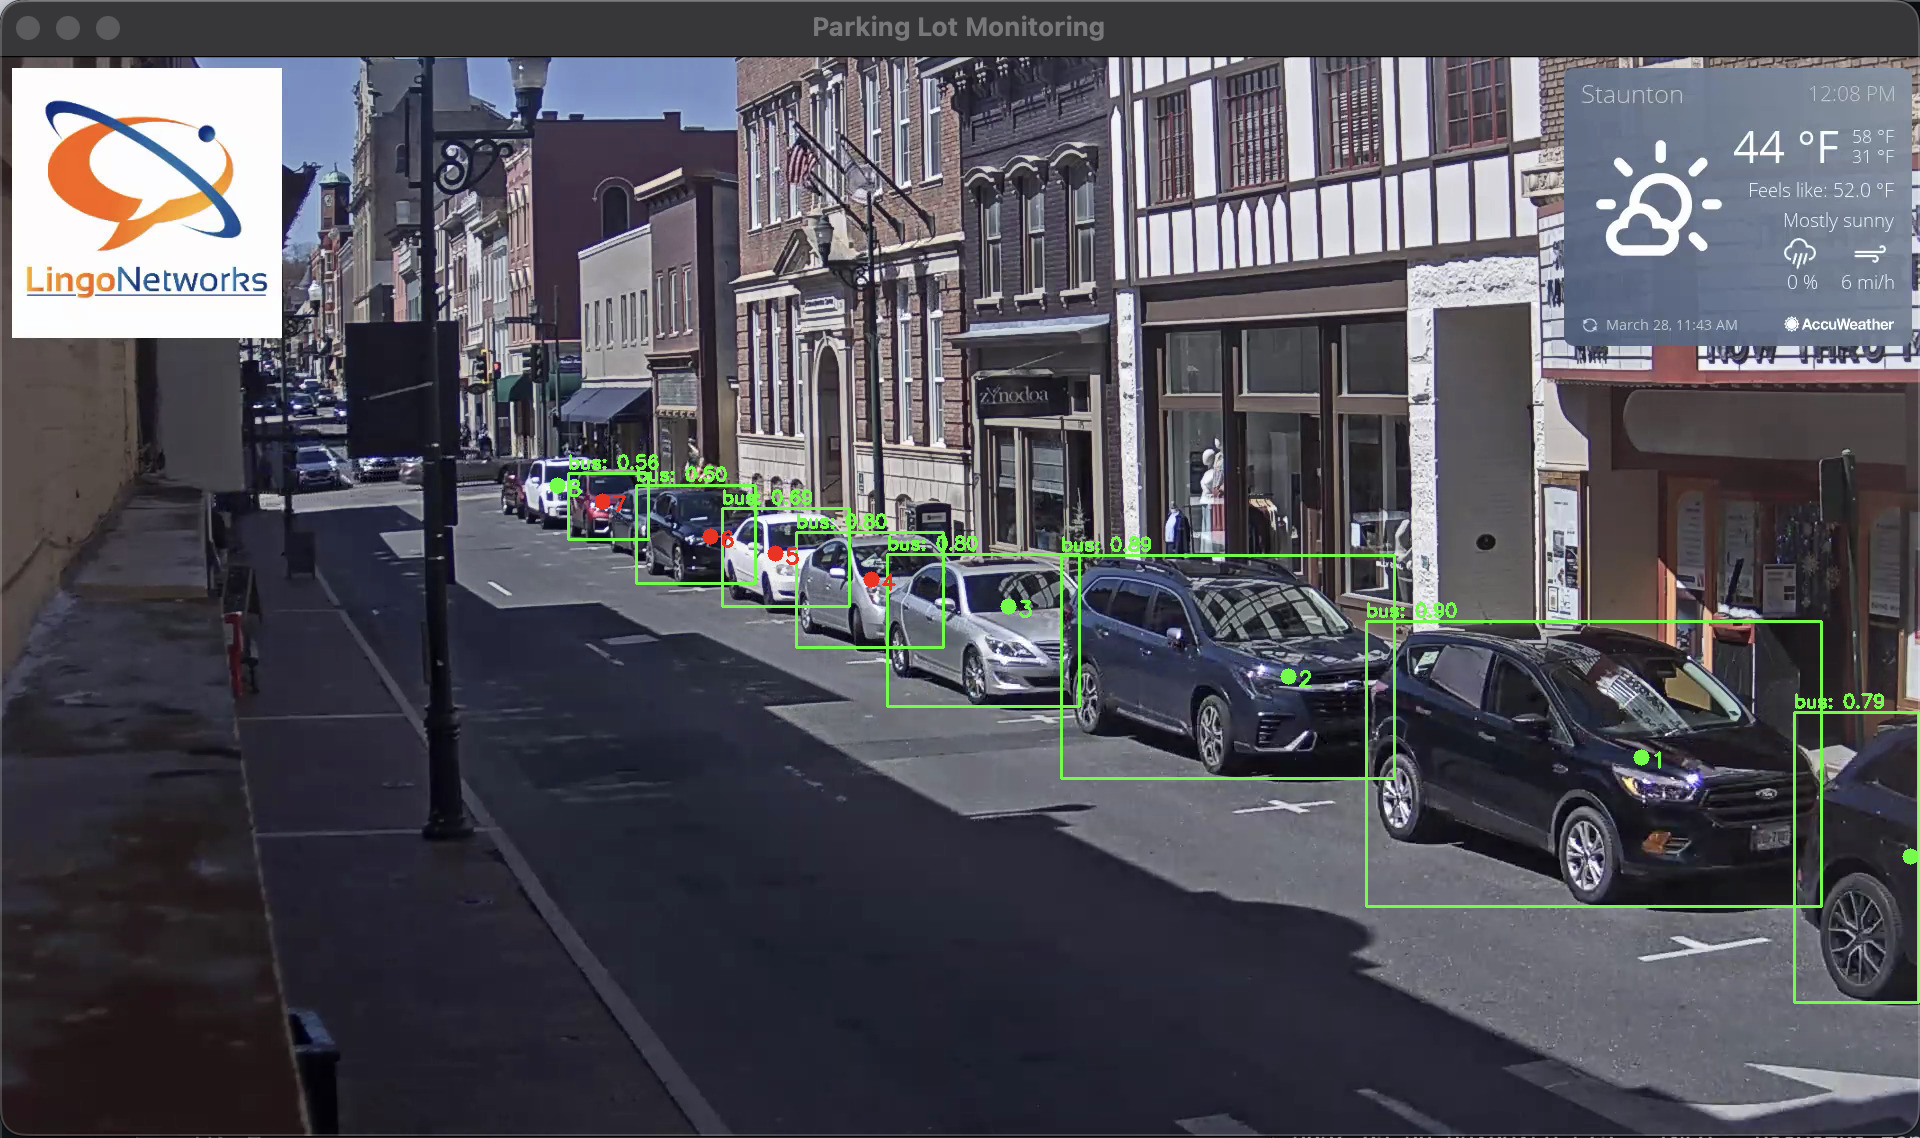
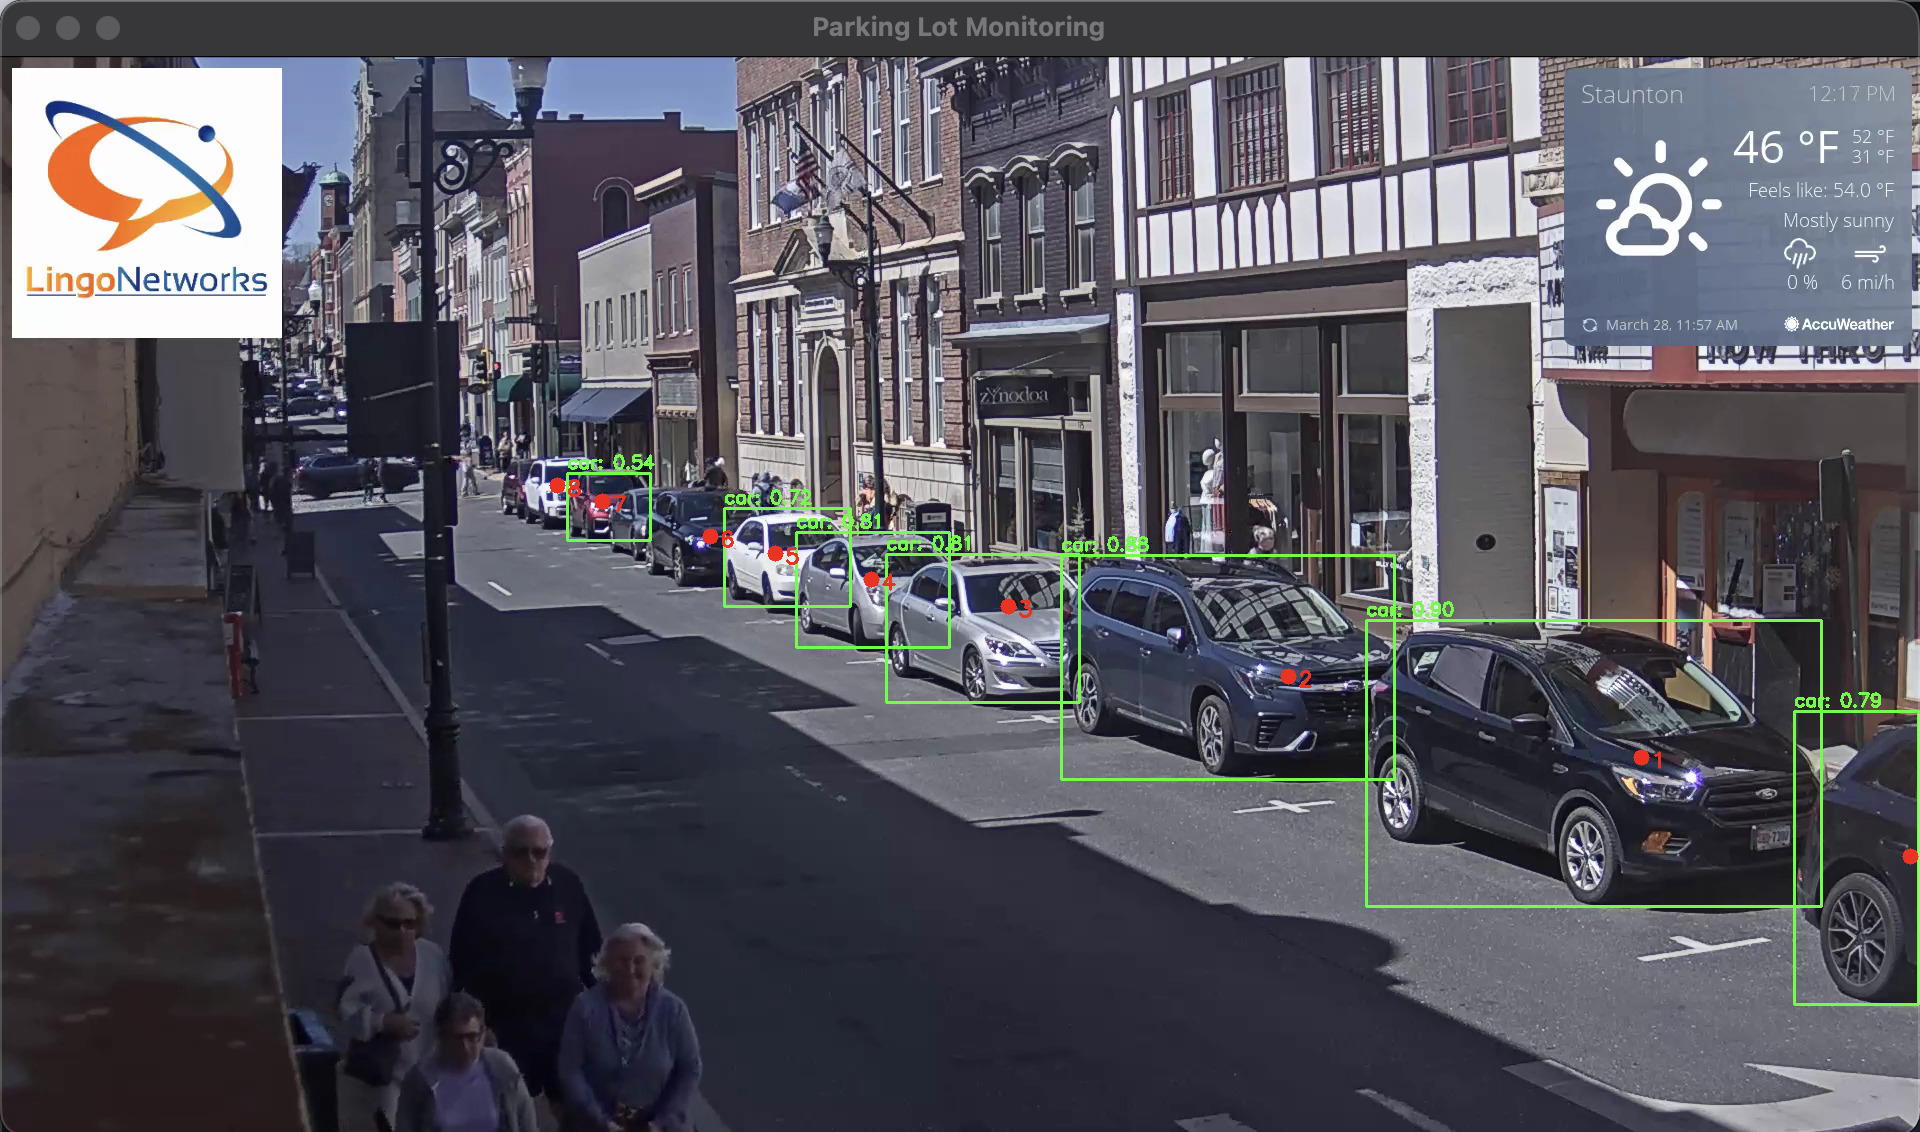
pray that this is last commit

diff --git a/main.py b/main.py
@@ -85,11 +85,21 @@ if device == 'cpu' and os.path.exists(args.model):
             "Для Mac M1 попробуйте --device mps и/или --size 320."
         )
 
-with open("coco.names", "r") as f:
-    classes = [line.strip() for line in f.readlines()]
+if isinstance(model.names, dict):
+    classes = [name for _, name in sorted(model.names.items(), key=lambda item: item[0])]
+else:
+    classes = list(model.names)
 
-VEHICLE_CLASSES = ["car", "motorbike", "bus", "truck"]
-VEHICLE_IDS = [classes.index(cls) for cls in VEHICLE_CLASSES if cls in classes]
+if not classes and os.path.exists("coco.names"):
+    with open("coco.names", "r") as f:
+        classes = [line.strip() for line in f.readlines()]
+
+vehicle_name_aliases = {"car", "motorbike", "motorcycle", "bus", "truck"}
+VEHICLE_IDS = [idx for idx, name in enumerate(classes) if str(name).lower() in vehicle_name_aliases]
+
+if not VEHICLE_IDS:
+    logging.warning("Не удалось определить IDs транспортных классов, использую fallback [2,3,5,7]")
+    VEHICLE_IDS = [2, 3, 5, 7]
 
 is_recording = False
 video_writer = None
@@ -700,11 +710,24 @@ def process_stream():
             total_vehicles += vehicle_count
 
             occupied_spots = [False] * len(parking_spots)
-            
-            for i, (x, y, _) in enumerate(parking_spots):
-                for center in centers:
-                    distance = np.sqrt((x - center[0])**2 + (y - center[1])**2)
-                    if distance < 30:
+
+            for i, (spot_x, spot_y, _) in enumerate(parking_spots):
+                for box, center in zip(boxes, centers):
+                    box_x, box_y, box_w, box_h = box
+                    pad_x = int(box_w * 0.15)
+                    pad_y = int(box_h * 0.20)
+
+                    inside_box = (
+                        (box_x - pad_x) <= spot_x <= (box_x + box_w + pad_x)
+                        and (box_y - pad_y) <= spot_y <= (box_y + box_h + pad_y)
+                    )
+                    if inside_box:
+                        occupied_spots[i] = True
+                        break
+
+                    adaptive_radius = max(35, int(min(box_w, box_h) * 0.35))
+                    distance = np.sqrt((spot_x - center[0]) ** 2 + (spot_y - center[1]) ** 2)
+                    if distance <= adaptive_radius:
                         occupied_spots[i] = True
                         break
 
@@ -732,7 +755,9 @@ def process_stream():
                     (x, y, w, h) = box
                     cv2.rectangle(frame, (x, y), (x + w, y + h), (0, 255, 0), 2)
                     
-                    label = f"{classes[class_ids[i]]}: {confidences[i]:.2f}"
+                    class_id = class_ids[i]
+                    class_name = classes[class_id] if 0 <= class_id < len(classes) else f"id_{class_id}"
+                    label = f"{class_name}: {confidences[i]:.2f}"
                     cv2.putText(frame, label, (x, y - 5),
                                 cv2.FONT_HERSHEY_SIMPLEX, 0.6, (0, 255, 0), 2)
 
